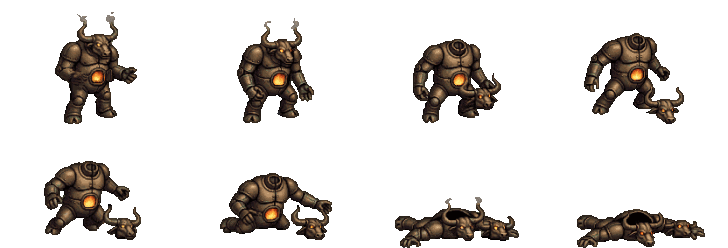
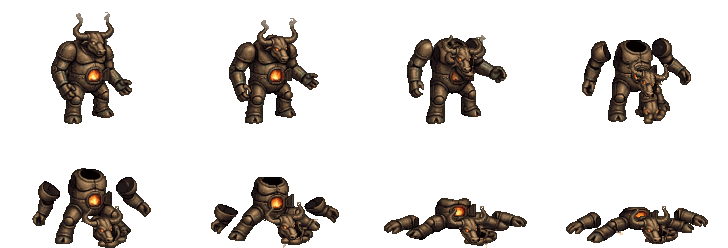
Combat : la mort du Moloch qui se défait, sa tête visible
L'essai « Nouveau 2 » du 19 novembre (le corps se démonte), dont la tête
devenait une masse : la vraie tête posée par le code, qui tombe et reste au
sol. Choisie par l'utilisateur.

diff --git a/HISTORIQUE.md b/HISTORIQUE.md
@@ -2930,6 +2930,14 @@ créature rare), le nombre par carte et la difficulté selon la zone ; les créa
   Une étincelle cyan effacée sur le coup reçu du Cavalier. 25 essais, 0,42 $ dont 0,17 $ perdus : les premiers essais
   de l'Archer et du Griffon partaient des anciennes grandes images, restées dans le dossier `art-candidats` du
   worktree (non suivi par git).
+  ✅ **La mort du Moloch qui se défait** (2026-11-20, branche `moloch-jambes`) : l'utilisateur veut voir la statue se
+  démonter (jambes, torse, bras, tête), pas tomber d'un bloc. Essais écartés : quatre suites depuis l'image à genoux
+  (PixelLab v3 et second modèle : il se relève, ou ne se défait pas ; 1,38 $, le second modèle coûtant environ 0,65 $
+  l'essai pour une créature de cette taille, dépensés sans accord) ; une chute en neuf morceaux faite par le code
+  (« shattered, not dismantled » : on dirait qu'elle éclate). Gardé : « Nouveau 2 » du 2026-11-19 (death-6, les bras
+  tombent, le corps se démonte en tas), dont la tête devenait une masse informe : la vraie tête, découpée dans l'image
+  2, posée par le code sur le même chemin (elle glisse du cou, tombe devant, rebondit, reste sur le tas), les
+  étincelles retirées. Les jambes s'affaissent dans le tas sans se défaire : « good enough ».
   ✅ **Le coup reçu du Dragon et de l'Hydre, fini** (2026-11-20, branche `coups-dragon-hydre`) : ceux du 2026-11-17
   bougeaient à peine (« encore à finir », selon l'utilisateur, qui voulait un Dragon qui recule). Le modèle v3, 8 images
   avec retour, une consigne qui fait **se cabrer en arrière** : « rears back to the left: it throws its head and long

diff --git a/tools/art/METHODE.md b/tools/art/METHODE.md
@@ -392,6 +392,10 @@ les clés et le dossier `art-candidats/` sont décrits dans `CLAUDE.md` ; l'hist
     tombe est coupé en bas. Nommer chaque morceau et dire qu'il reste visible au sol (« the horned bull head drops in
     front, fully visible »). Encore difficile : le Moloch défait jusqu'aux jambes, le Golem vraiment pierre à pierre ;
     « crumble », « dissolve » restent peu sûrs.
+  - **Une partie qui disparaît ou devient une masse** (la tête du Moloch, 2026-11-20) : la découper dans une image où
+    elle est nette et la poser par le code, image par image, sur le chemin que PixelLab lui donnait (elle recouvre la
+    masse). Une créature découpée en morceaux qui tombent par le code « éclate » au lieu de « se démonter » : refusé.
+    **Prix** : le second modèle coûte environ 0,65 $ l'essai pour une grande créature (le Moloch) ; vérifier avant.
   - **Une mort presque bonne se finit à la main**, sans nouvel essai : une fin recolorée (le Démon : un corps calciné
     écrasé vers le sol, puis le tas recoloré en cendre grise) ; une robe restée debout écrasée vers le sol image après
     image ; ou **une suite animée depuis la dernière grande image** (`--depart=<dossier de l'essai>/9.png`, même

diff --git a/PLAN.md b/PLAN.md
@@ -234,7 +234,8 @@ nuages et des rochers dans les paysages ouverts, les flaques loin des obstacles 
 (2026-11-19), celui de la roche, une terre désolée, et celui de la terre brûlée, aux feux qui respirent (2026-11-20).
 ✅ Une **animation de mort** par créature (2026-11-17), revue avec l'utilisateur et **variée** (2026-11-19, branche
 `morts-variees` : en arrière, sur le côté, une mort propre au Démon, à la Liche, au Roi de cristal, au Golem…).
-**Plus tard, si l'occasion se présente** : les jambes du Moloch qui se défont aussi.
+✅ La mort du **Moloch** qui se défait vraiment, sa tête visible au sol (2026-11-20, branche `moloch-jambes` ; « good
+enough », selon l'utilisateur : les jambes s'affaissent dans le tas sans se défaire).
 ✅ Un **coup reçu** par créature (2026-11-17), revu et choisi avec l'utilisateur (le Dragon, l'Hydre et le Démon par le
 second modèle de PixelLab) ; ceux du **Dragon** et de l'**Hydre** finis (2026-11-20, branche `coups-dragon-hydre` : ils
 se cabrent en arrière ; préférés par l'utilisateur à ceux de `animations-dragon-hydre-ver`, faits le même jour).
